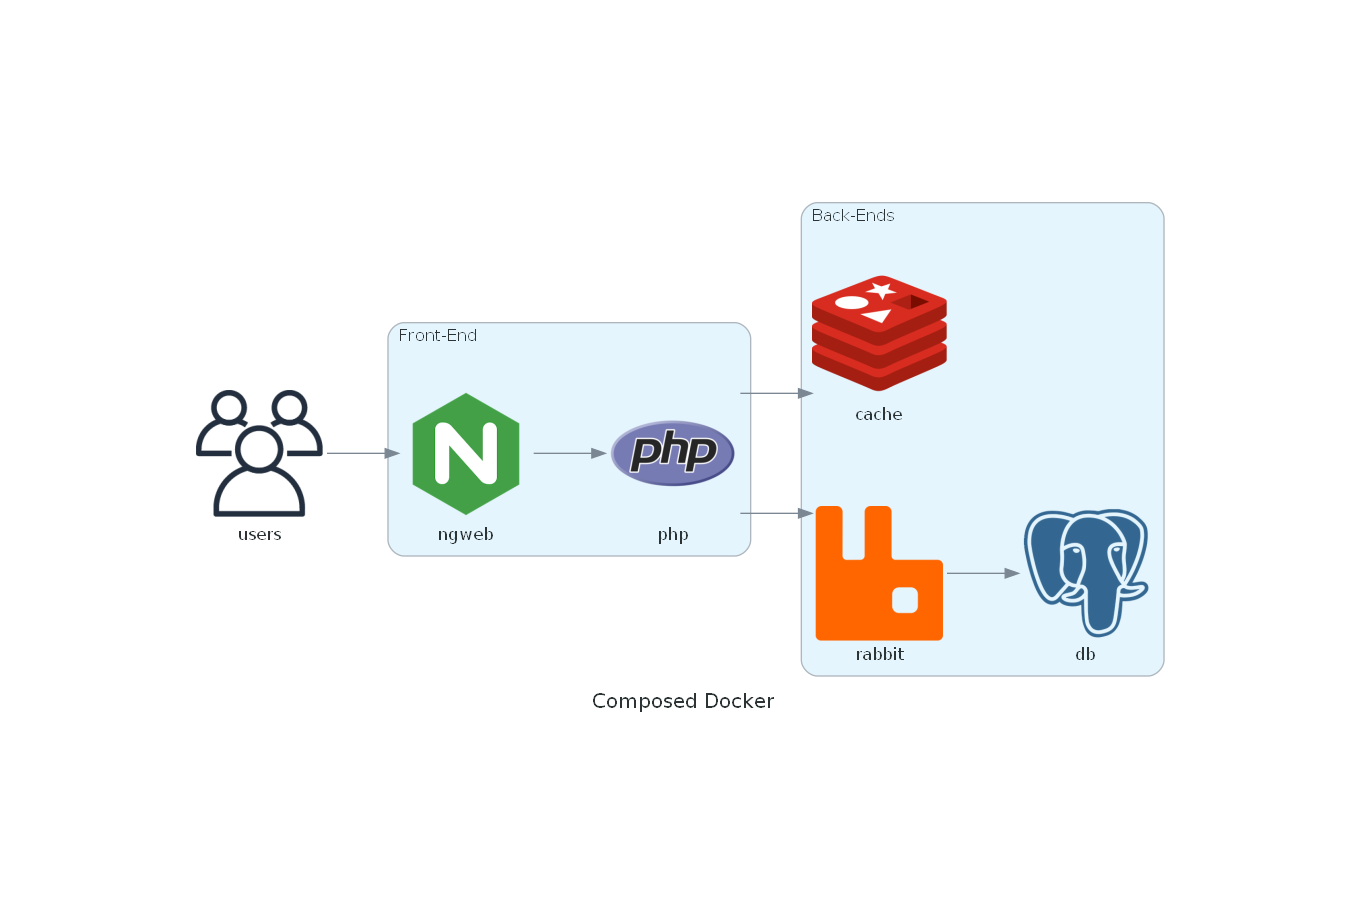
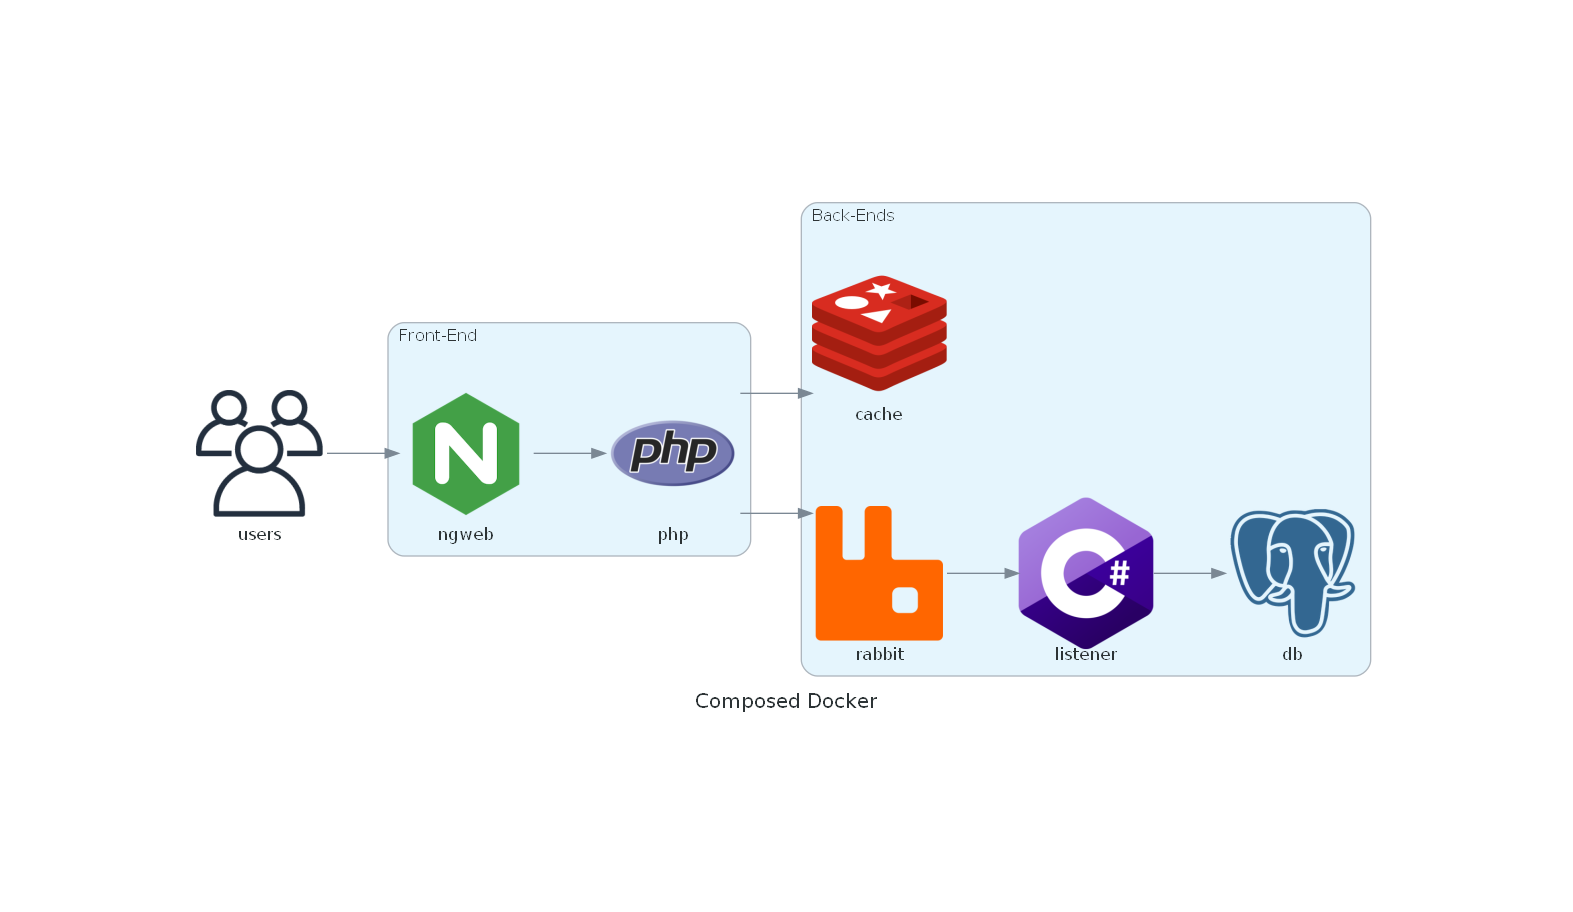
Dotnet rabbitmq receiver writes to postgresqlDB

Changed region(s): [[0.1229, 0.2149, 0.891, 0.7982], [0.1536, 0.5833, 0.1843, 0.614]]

diff --git a/receiver-writer/Program.cs b/receiver-writer/Program.cs
@@ -1,0 +1,118 @@
+using System;
+using System.Text; 
+using System.Text.Json;
+using System.Text.Json.Serialization;
+using System.Threading.Tasks; 
+using RabbitMQ.Client; 
+using RabbitMQ.Client.Events;
+using Npgsql;
+
+internal class Program
+{
+    private static async Task Main(string[] args)
+    {
+        Console.WriteLine("Startup sleep 20s...");
+        Thread.Sleep(20000); 
+        Console.WriteLine("Sleeping finished... initializing");
+
+
+        var connectionStringBuilder = new NpgsqlConnectionStringBuilder()
+        {
+            ConnectionString = "User ID=postgres;Password=postgres;Server=pgdb;Port=5432;Database=postgres;Integrated Security=true;Pooling=false;CommandTimeout=300"
+        };
+        using (var Db = new NpgsqlConnection(connectionStringBuilder.ConnectionString))
+        {
+            if (Db != null) 
+                Db.Open();
+            else 
+                Console.WriteLine("Unable to connect to DB");
+
+            var sqlInsert = "INSERT INTO events(uuid, type, body) VALUES (@uuid, @type, CAST(@body as json))";
+            var InsertCmd = new NpgsqlCommand(sqlInsert, Db);
+
+            string rabbitConnection = "amqp://guest:guest@rabbitmq:5672/";
+            string rabbit_channel = "events";
+
+            ConnectionFactory factory = new ConnectionFactory();
+            factory.Uri = factory.Uri = new Uri(rabbitConnection);
+
+            using (var connection = factory.CreateConnection())
+            using (var channel = connection.CreateModel())
+            {
+                channel.QueueDeclare(queue: rabbit_channel,
+                                        durable: false,
+                                        exclusive: false,
+                                        autoDelete: false,
+                                        arguments: null);
+
+                var consumer = new EventingBasicConsumer(channel);
+                consumer.Received += (model, ea) =>
+                {
+                    var body = ea.Body.ToArray();
+                    var messageContents = Encoding.UTF8.GetString(body);
+                    Console.WriteLine(" [x] Received {0}", messageContents);
+
+                    var decoded = JsonSerializer.Deserialize<EventMessage>(messageContents);
+                    if (decoded != null)
+                    {
+                        InsertCmd.Parameters.Clear();
+                        InsertCmd.Parameters.AddWithValue("uuid", decoded.uuid);
+                        InsertCmd.Parameters.AddWithValue("type", decoded.type != null ? decoded.type : "");
+                        InsertCmd.Parameters.AddWithValue("body", decoded.body != null ? decoded.body : "{}");
+                        int inserted = InsertCmd.ExecuteNonQuery();
+                        if (inserted != 1) Console.WriteLine("Error Inserting {0}", messageContents);
+                    }
+                    else
+                    {
+                        Console.WriteLine("Error Deserializing {0}", messageContents);
+                    }
+                };
+                channel.BasicConsume(queue: rabbit_channel,
+                                        autoAck: true,
+                                        consumer: consumer);
+           
+                Console.WriteLine("Ready to receive messages");
+
+                Publish(rabbitConnection, rabbit_channel, new EventMessage() { uuid = Guid.NewGuid(), type = "dotnet_receiver", body = JsonSerializer.Serialize( new { message = "ready to receive message" } ) });
+
+                CancellationTokenSource Cts = new();
+                await Task.Delay(Timeout.Infinite, Cts.Token).ConfigureAwait(false);
+            }
+        }
+    }
+
+    public static void Publish(string amqpConnectString, string rabbit_channel, EventMessage eventmessage) 
+    {
+        ConnectionFactory factory = new ConnectionFactory(); 
+        factory.Uri = new Uri(amqpConnectString);
+
+        using(var connection = factory.CreateConnection())
+        using(var channel = connection.CreateModel())
+        {
+            channel.QueueDeclare(queue: rabbit_channel,
+                                durable: false,
+                                exclusive: false,
+                                autoDelete: false,
+                                arguments: null);
+
+            string message = JsonSerializer.Serialize(eventmessage);
+            Console.WriteLine("Publishing: {0}", message); 
+            var body = Encoding.UTF8.GetBytes(message);
+
+            channel.BasicPublish(exchange: "",
+                                routingKey: rabbit_channel,
+                                basicProperties: null,
+                                body: body);
+        }
+    }
+}
+
+public class EventMessage
+{
+    public Guid uuid {get; set;}
+    public string? type {get;set;}
+    public string? body {get;set;}
+
+}
+
+

diff --git a/ArchitectureDiagram/diagram.py b/ArchitectureDiagram/diagram.py
@@ -9,6 +9,7 @@ from diagrams.onprem.inmemory import Redis
 from diagrams.onprem.database import Postgresql
 from diagrams.onprem.queue import Rabbitmq
 from diagrams.programming.language import PHP
+from diagrams.programming.language import Csharp
 from diagrams.onprem.client import Users
 from diagrams.onprem.network import Nginx
 
@@ -22,8 +23,9 @@ with Diagram("Composed Docker", show=False):
     with Cluster("Back-Ends"):
         redis = Redis("cache")
         rabbit = Rabbitmq("rabbit")
+        listener = Csharp("listener")
         db = Postgresql("db")
     
-    users >> web >> php >> rabbit >> db
+    users >> web >> php >> rabbit >> listener >> db
     php >> redis
 
